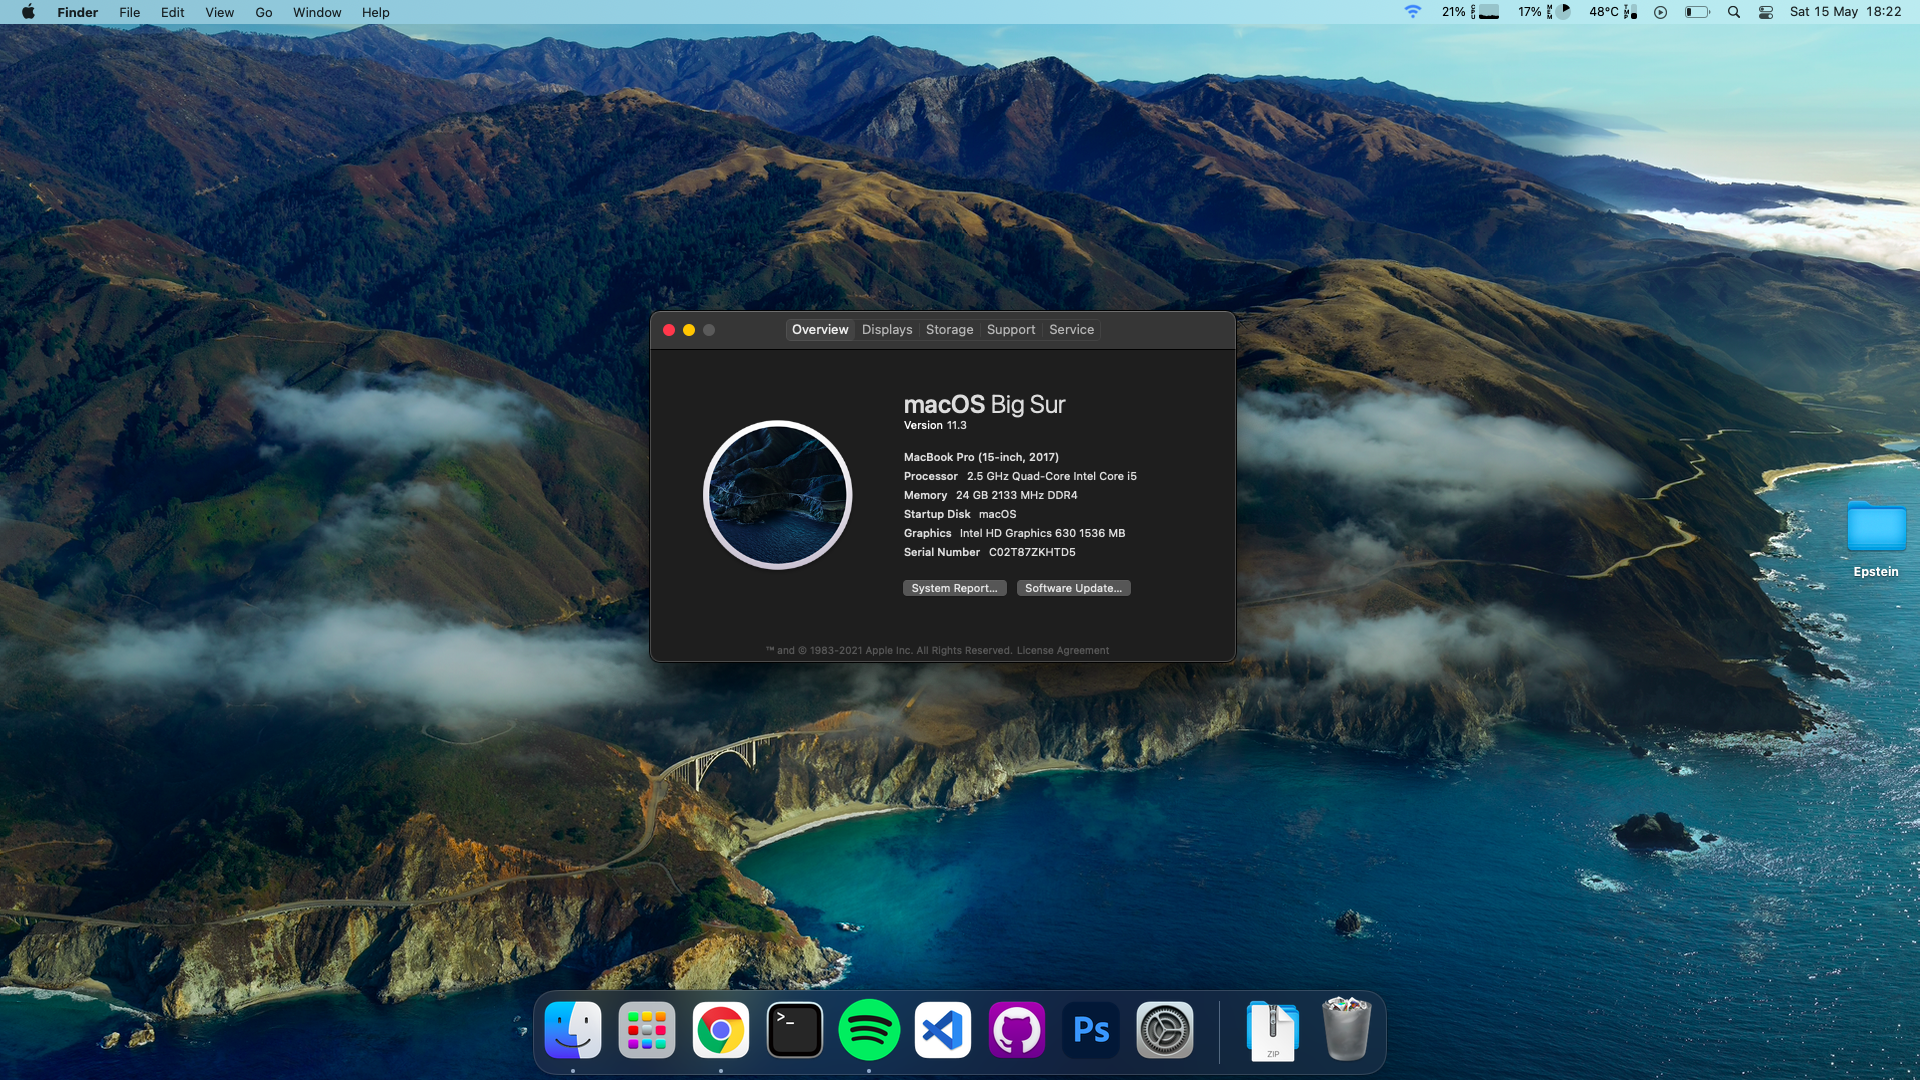
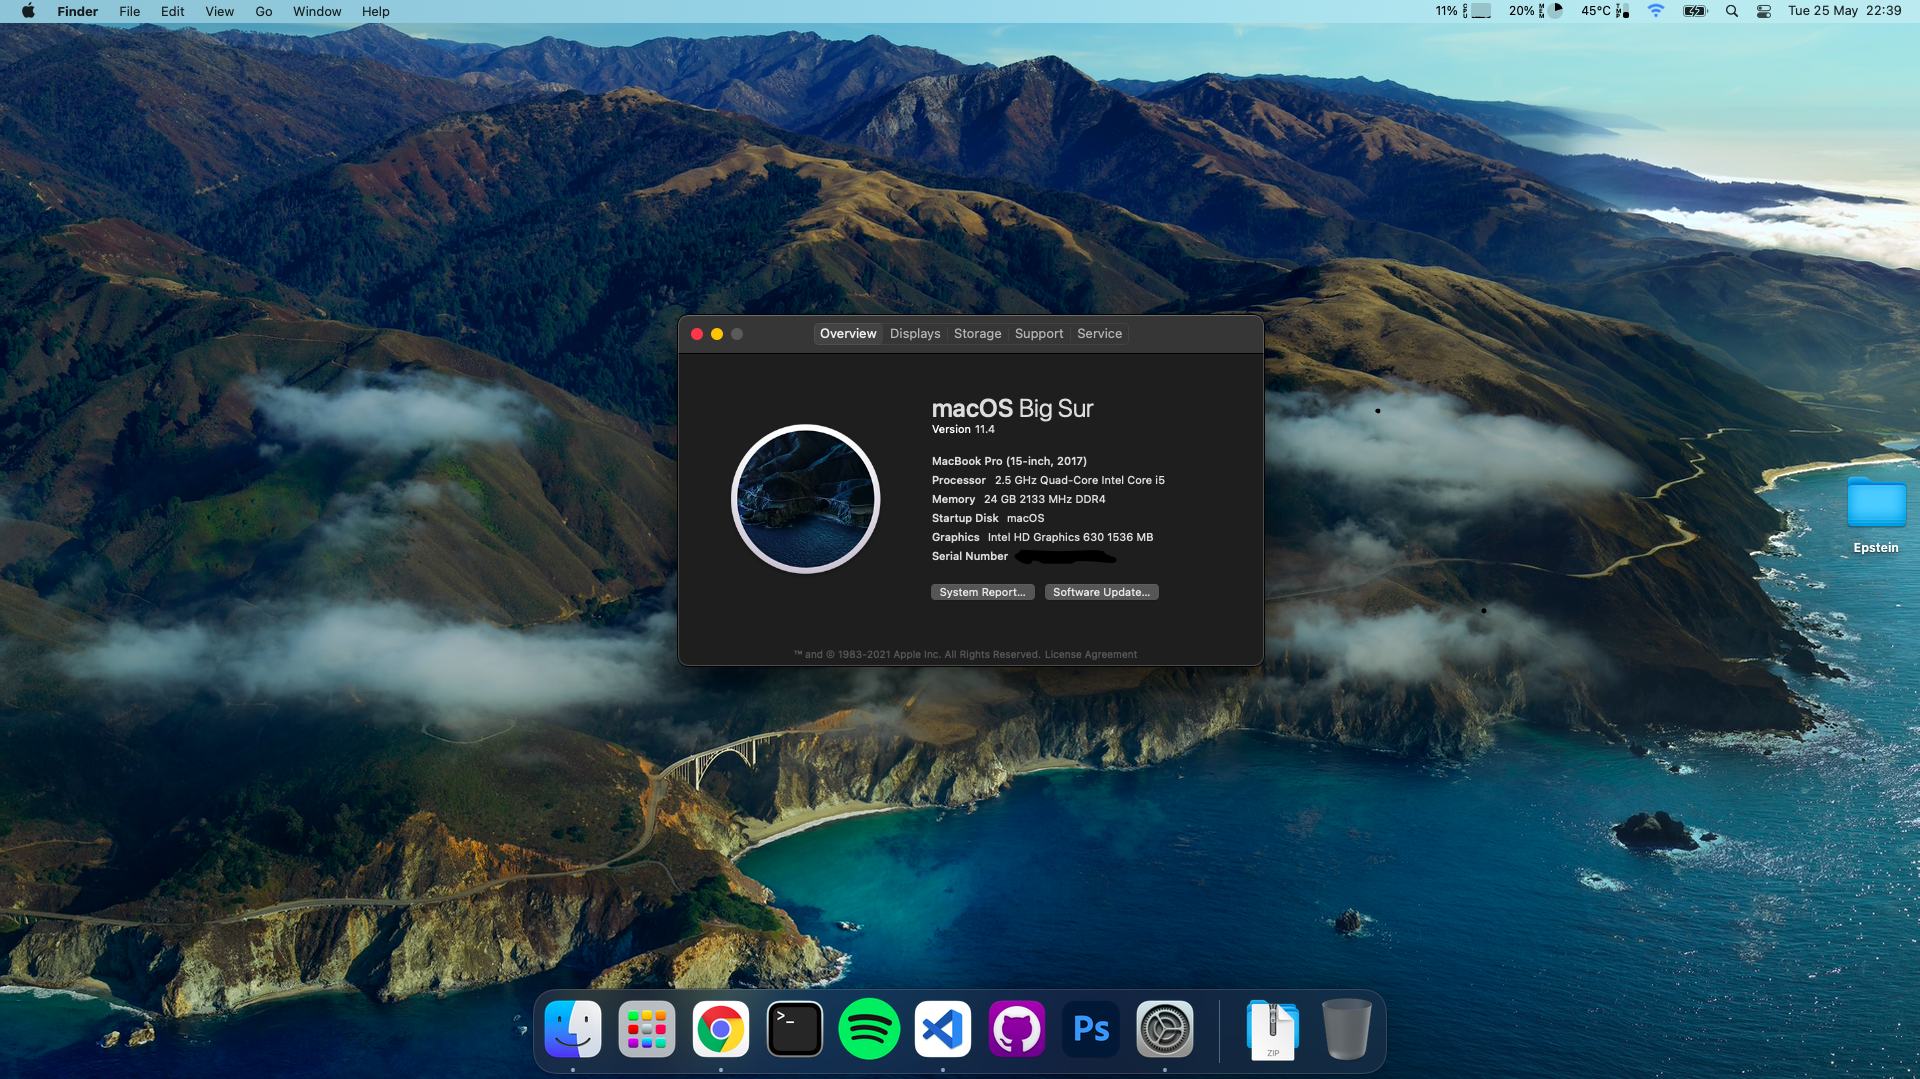
feat : updated to Big Sur 11.4

diff --git a/README.md b/README.md
@@ -1,10 +1,10 @@
 # [SUCCESS] Acer-Nitro5-Hackintosh
 
-If you love my work, do provide a ⭐.
+If you love my work, help me with a ⭐.
 
 [![Preview](snap.png)](https://github.com/niladrihere/Acer-Nitro5-Hackintosh-OC/)
 
-Fully functional on Big Sur 11.3
+Fully functional on Big Sur 11.4
 
 The whole project was made with the help of Opencore - Dortania (Guide). A huge thanks to the awesome community with well ducumented [guide](https://dortania.github.io/OpenCore-Install-Guide/prerequisites.html).
 
